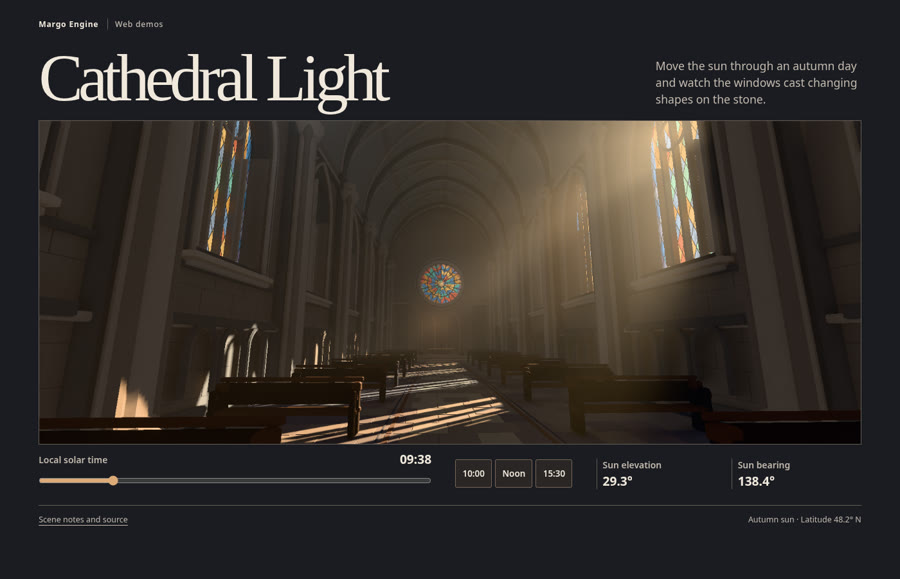
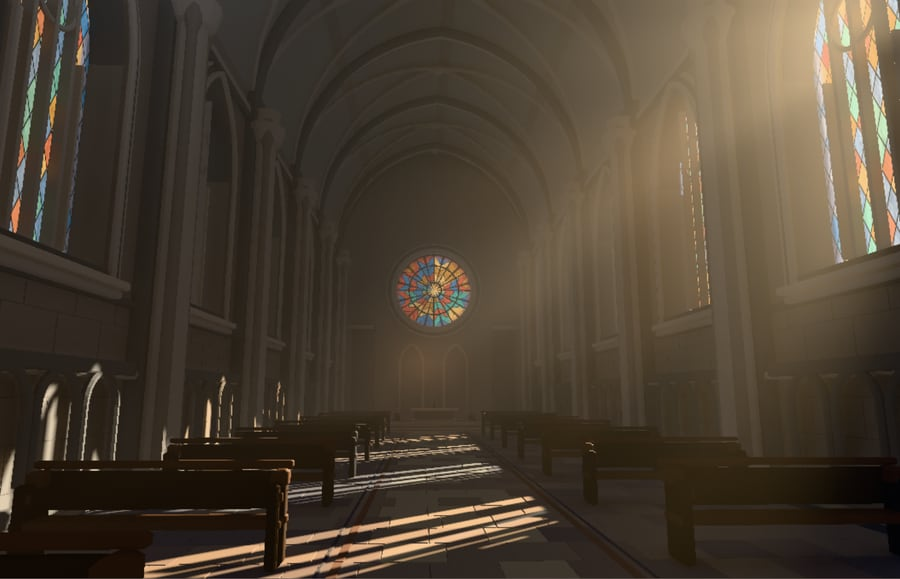
feat(scripts): gallery thumbnails captured from the real demo pages
scripts/web-demos/thumbnail.mjs opens each demo in Chrome with WebGPU, waits
for the exhibit's ready mark, crops the rendered scene to the 900 x 579 card
and writes demos/thumbs/<name>.jpg; a page that errors keeps its old card.
The cards showed the whole page shrunk, title and controls included; they now
show the scene. Refreshed for Newton's Cradle, Cathedral Light and Event Horizon.

diff --git a/demos/README.md b/demos/README.md
@@ -28,7 +28,13 @@ Each folder keeps the code it was built from in `source/`. After changing a demo
 node scripts/web-demos/build.mjs newtons-cradle
 ```
 
-That bundles `source/` against this checkout's packages, replaces `index.html` and the hashed files in `assets/`, and refreshes `downloads/newtons-cradle.zip`. Pass several names, or `--all`. Demos use only engine packages: a simulation, model or effect a demo needs belongs in its package, never in `source/`.
+That bundles `source/` against this checkout's packages, replaces `index.html` and the hashed files in `assets/`, and refreshes `downloads/newtons-cradle.zip`. Pass several names, or `--all`. Then refresh the gallery card from the real page:
+
+```sh
+node scripts/web-demos/thumbnail.mjs newtons-cradle
+```
+
+It waits until the exhibit is marked ready, crops the rendered scene to 900 x 579 and writes `thumbs/newtons-cradle.jpg`. Demos use only engine packages: a simulation, model or effect a demo needs belongs in its package, never in `source/`.
 
 ## Exhibits
 
